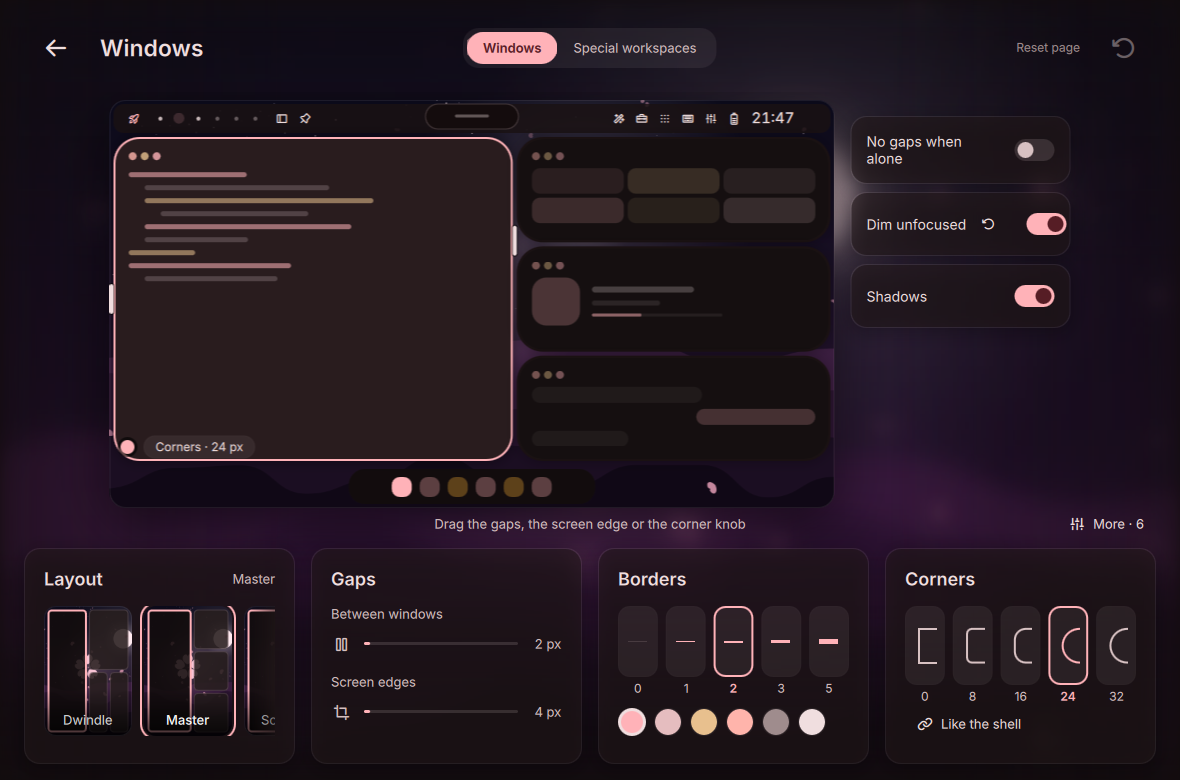
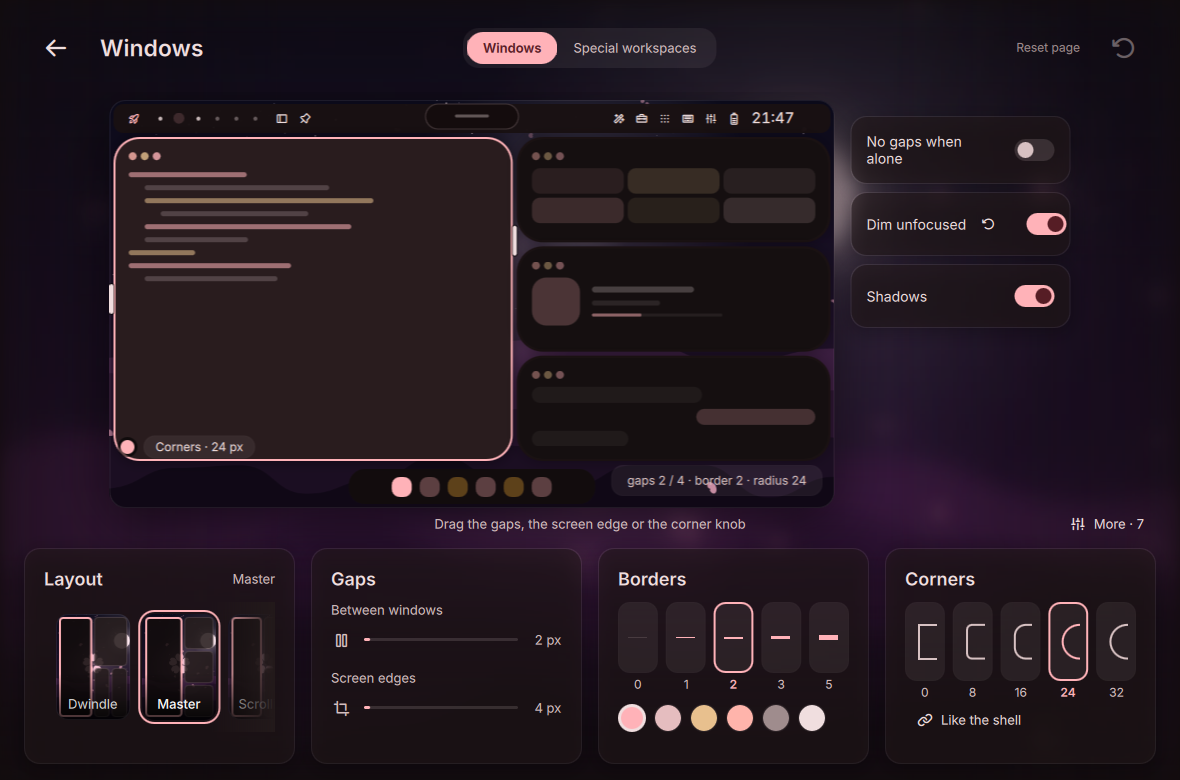
feat(settings): Special workspaces as a list page; Windows and Power keep their raw rows in More
Special workspaces use the list form without a band: the workspaces
list takes the row, the switch beside it. The Windows stage carries a
readout of the numbers it draws and, on a compositor that lacks some of
its settings, the note of what it hides (a fitted page has no room for
the note under its cards); the unfocused border colour is a row of the
More sheet. Power keeps the raw idle listeners as a More row beside the
timeline.

diff --git a/modules/settings/stages/WindowsStage.qml b/modules/settings/stages/WindowsStage.qml
@@ -8,6 +8,8 @@ import qs.modules.components.kit
 import qs.modules.settings.store
 import "WindowTiles.js" as Tiles
 import "../controls/ColorRoleModel.js" as ColorModel
+import "../CompositorGate.js" as CompositorGate
+import "../schema/windows.js" as WindowsSchema
 
 // Stage of the Windows page: your screen (ScreenMini, without its faux
 // windows) tiled by the compositor's layout at real pixels: the gaps
@@ -77,6 +79,11 @@ Stage {
     }
 
     stageHeight: Space.px(300)
+
+    // On a compositor that lacks some of these settings, the stage says how
+    // many rows it hides and where they work (a fitted page has no room
+    // for the scrolling page's note under its cards).
+    readonly property var gated: CompositorGate.hiddenBy(WindowsSchema.category.sections, YozdService.compositorName)
 
     ScreenMini {
         id: mini
@@ -155,6 +162,52 @@ Stage {
                 map: (dx, dy) => Tiles.roundingFromDrag(cornerGrip.start, dx, -dy)
                 keys: ["compositor.rounding", "windows.corners"]
             }
+        }
+    }
+
+    Mark {
+        objectName: "compositorOnlyNote"
+        readonly property string text: gateText.text
+        visible: stage.gated.count > 0
+        x: Space.m
+        anchors.bottom: parent.bottom
+        anchors.bottomMargin: Space.m
+        width: Math.min(parent.width - Space.m * 2, gateText.implicitWidth + Space.l * 2)
+        height: gateText.height + Space.s * 2
+        radius: Look.radius("chip", height)
+        color: Look.raisedFill(false)
+        border.width: Space.hairline
+        border.color: Type.hairline
+        KitText {
+            id: gateText
+            x: Space.l
+            anchors.verticalCenter: parent.verticalCenter
+            width: Math.min(implicitWidth, stage.width - Space.m * 2 - Space.l * 2)
+            role: "caption"
+            color: Type.secondary
+            elide: Text.ElideRight
+            text: stage.gated.count > 0 ? I18n.tn("prefs.compositor_only.note", stage.gated.count).replace("%2", CompositorGate.describe(stage.gated.compositors)) : ""
+        }
+    }
+
+    // the numbers the picture is drawn with
+    Mark {
+        anchors.right: parent.right
+        anchors.bottom: parent.bottom
+        anchors.margins: Space.m
+        width: readout.implicitWidth + Space.l * 2
+        height: readout.implicitHeight + Space.s * 2
+        radius: Look.radius("chip", height)
+        color: Look.raisedFill(false)
+        border.width: Space.hairline
+        border.color: Type.hairline
+        KitText {
+            id: readout
+            objectName: "windowsReadout"
+            anchors.centerIn: parent
+            role: "caption"
+            color: Type.secondary
+            text: I18n.t("prefs.windows.preview.readout").replace("%1", Math.round(stage.shownGapsIn)).replace("%2", Math.round(stage.shownGapsOut)).replace("%3", Math.round(stage.border)).replace("%4", Math.round(stage.shownRounding))
         }
     }
 

diff --git a/modules/settings/schema/power.js b/modules/settings/schema/power.js
@@ -2,8 +2,8 @@
 
 // Power: the battery and power profile (the stage), battery saver, what
 // happens while you are away (one idle timeline) and around sleep (two
-// switches). The raw idle listeners and sleep commands are out of the
-// window (`yozakura config`). Entry format: see modules/settings/AGENTS.md.
+// switches). The raw idle listeners are in the More sheet; the lock and
+// sleep commands are out of the window (`yozakura config`). Entry format: see modules/settings/AGENTS.md.
 
 function command(key, label, description, placeholder, keywords) {
     return {
@@ -55,10 +55,18 @@ var category = {
                     "keywords": "idle away timeout dim lock screen off sleep suspend minutes timeline hypridle"
                 },
                 toggle("performance.batterySaver", "system.performance.battery_saver", "system.performance.battery_saver_desc", "battery saver power laptop unplugged visualizer cava wavy wallpaper border pulse"),
-                command("system.idle.general.lock_cmd", "settings.system.lock_command", "prefs.sys.lock_cmd.desc", "idle.lock_cmd", "lock screen command idle"),
+                command("system.idle.general.lock_cmd", "settings.system.lock_command", "prefs.sys.lock_cmd.desc", "idle.lock_cmd", "lock screen command idle")
+            ]
+        },
+        {
+            // the raw listeners (a command at a time), for what the timeline
+            // does not draw: in the More sheet
+            "id": "commands",
+            "title": "prefs.power.section.commands",
+            "entries": [
                 {
                     "key": "system.idle.listeners",
-                    "advanced": true,
+                    "part": true,
                     "type": "list",
                     "fields": [
                         {

diff --git a/modules/settings/schema/windows.js b/modules/settings/schema/windows.js
@@ -184,15 +184,7 @@ var category = {
                     "description": "prefs.windows.border_angle.desc",
                     "keywords": "gradient angle rotation border"
                 },
-                {
-                    "key": "compositor.inactiveBorderColor",
-                    "advanced": true,
-                    "type": "color-role",
-                    "gradient": true,
-                    "label": "prefs.windows.inactive_border",
-                    "description": "prefs.windows.inactive_border.desc",
-                    "keywords": "inactive unfocused border color gradient role palette alpha"
-                },
+
                 {
                     "key": "compositor.inactiveBorderAngle",
                     "advanced": true,
@@ -205,6 +197,20 @@ var category = {
                     "label": "prefs.windows.inactive_border_angle",
                     "description": "prefs.windows.inactive_border_angle.desc",
                     "keywords": "gradient angle inactive border"
+                }
+            ]
+        },
+        {
+            "id": "unfocused",
+            "title": "prefs.windows.section.more_borders",
+            "entries": [
+                {
+                    "key": "compositor.inactiveBorderColor",
+                    "type": "color-role",
+                    "gradient": true,
+                    "label": "prefs.windows.inactive_border",
+                    "description": "prefs.windows.inactive_border.desc",
+                    "keywords": "inactive unfocused border color gradient role palette alpha"
                 }
             ]
         },

diff --git a/modules/settings/schema/specials.js b/modules/settings/schema/specials.js
@@ -2,7 +2,8 @@
 
 // Special workspaces (Hyprland scratchpads): the list editor (templates,
 // name, icon, accent, toggle + send binds, apps, preload) and the runtime
-// options. Global like the keybinds: presets never carry them. Logic:
+// options, as a list page (form "list", no band: the list is the page).
+// Global like the keybinds: presets never carry them. Logic:
 // modules/specials/. Entry format: see modules/settings/AGENTS.md.
 
 var category = {
@@ -11,6 +12,14 @@ var category = {
     "title": "prefs.cat.specials",
     "description": "prefs.cat.specials.desc",
     "keywords": "special workspaces scratchpad scratchpads hidden workspace telegram discord chat music dev notes toggle send window apps preload",
+    "form": "list",
+    "row": [
+        {
+            "id": "list",
+            "weight": 3.2
+        },
+        "behaviour"
+    ],
     "sections": [
         {
             "id": "list",

diff --git a/tests/settings-fit.test.py b/tests/settings-fit.test.py
@@ -26,7 +26,7 @@ from PySide6.QtTest import QTest  # noqa: E402
 from settings_env import SettingsEnv  # noqa: E402
 
 CONVERTED = ["bar", "notch", "dock", "layout", "appearance", "icons-type", "notifications", "osd", "menus", "lockscreen",
-             "wallpapers", "launcher", "dashboard", "desktop", "overview", "terminal", "presets", "extras", "mods", "voice", "timers", "routines", "ai", "ai-providers", "ai-code", "system", "updates", "windows", "power", "network", "bluetooth", "sound", "effects", "input"]
+             "wallpapers", "launcher", "dashboard", "desktop", "overview", "terminal", "presets", "extras", "mods", "voice", "timers", "routines", "ai", "ai-providers", "ai-code", "system", "updates", "windows", "power", "network", "bluetooth", "sound", "effects", "input", "specials"]
 MULTI = ('[{"id": "top", "edge": "top", "style": "classic", "groups": {"start": ["launcher"], "end": ["clock"]}},'
          ' {"id": "rail", "edge": "left", "style": "rail", "groups": {"start": ["launcher"], "end": ["power"]}}]')
 
